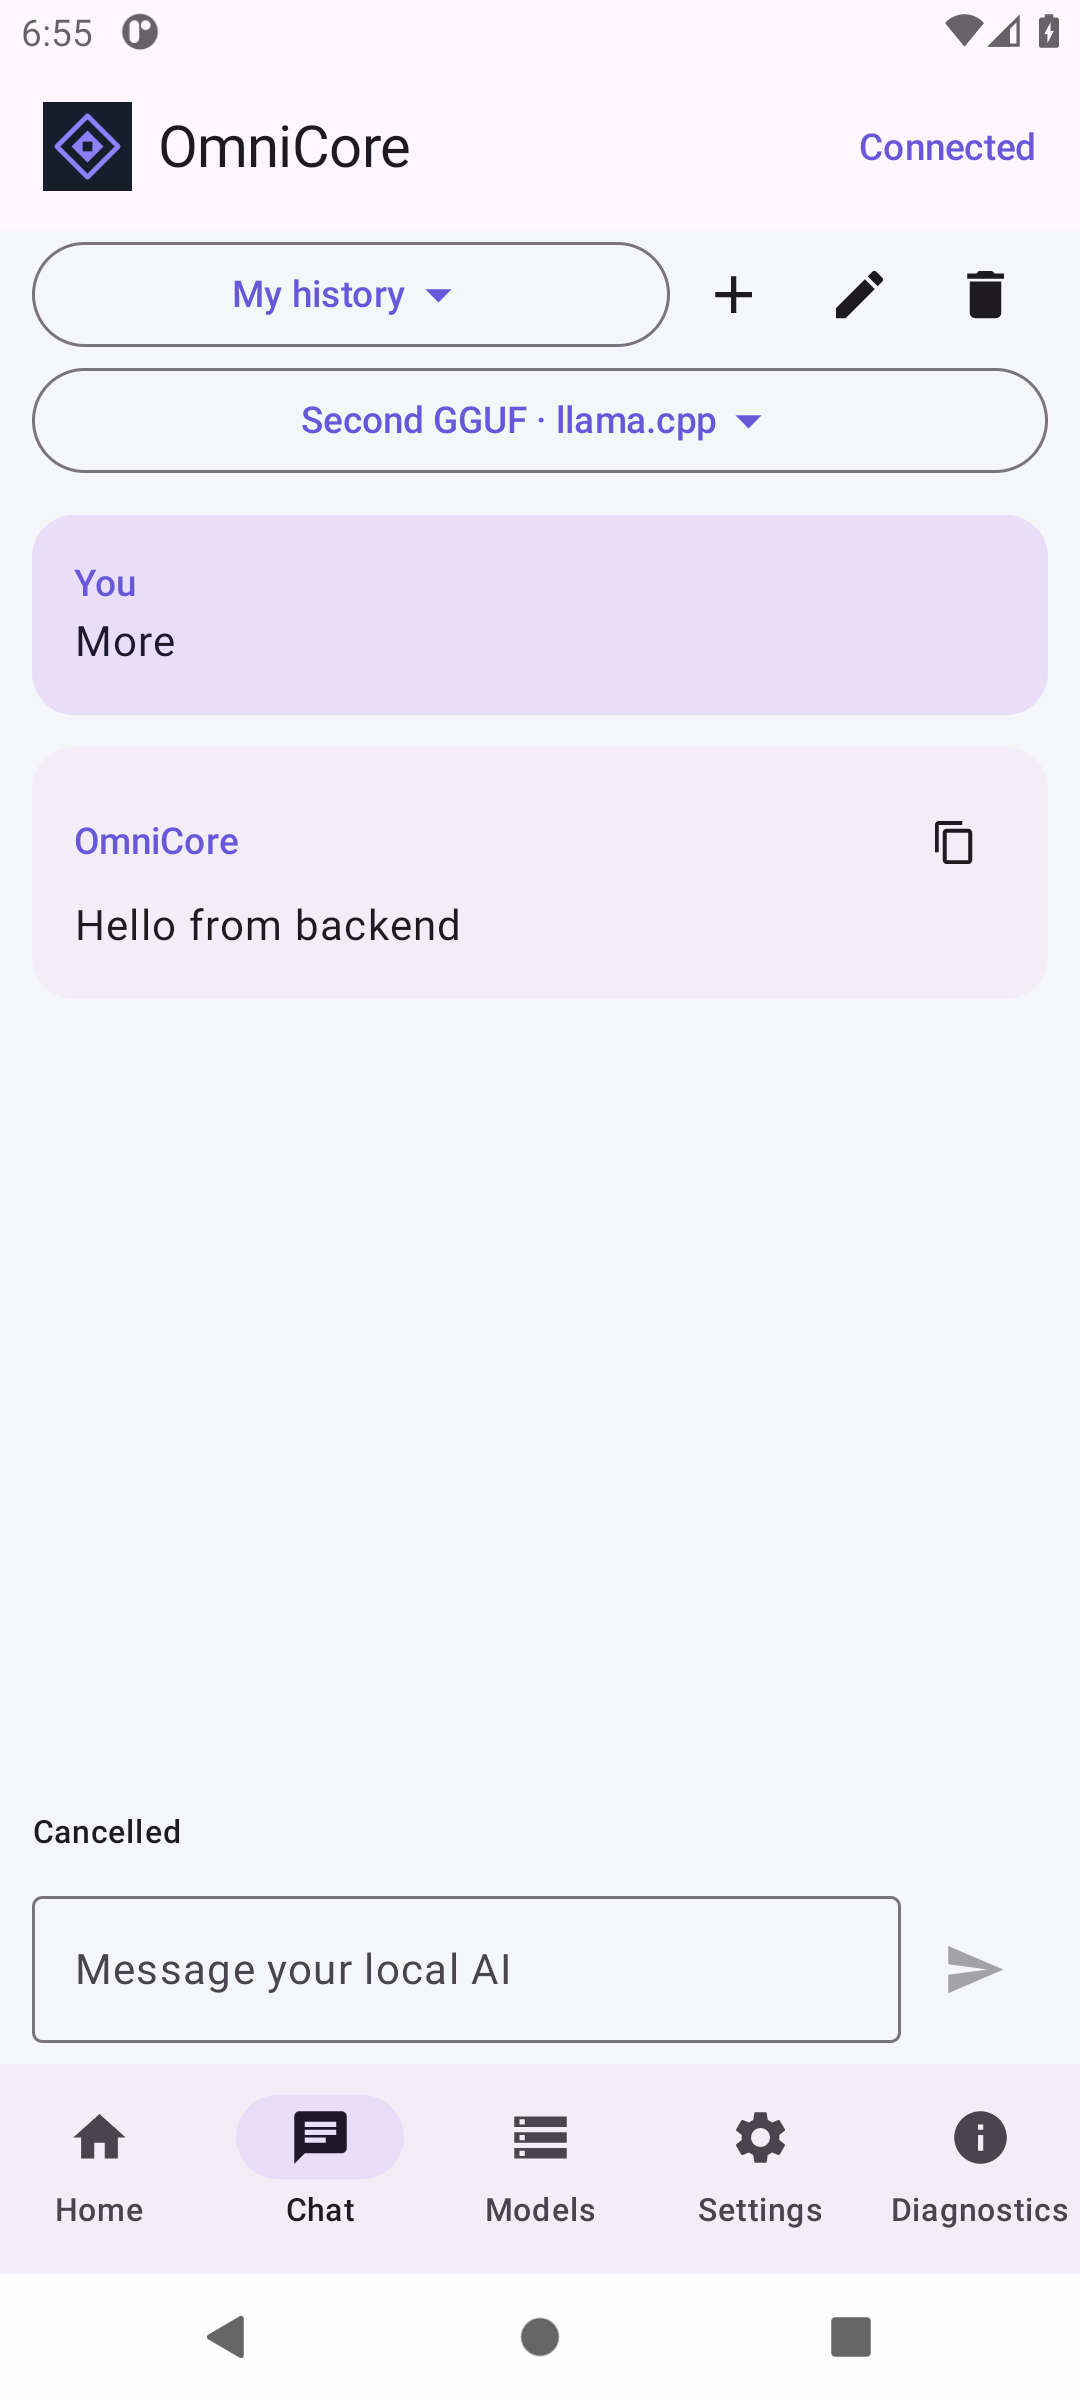
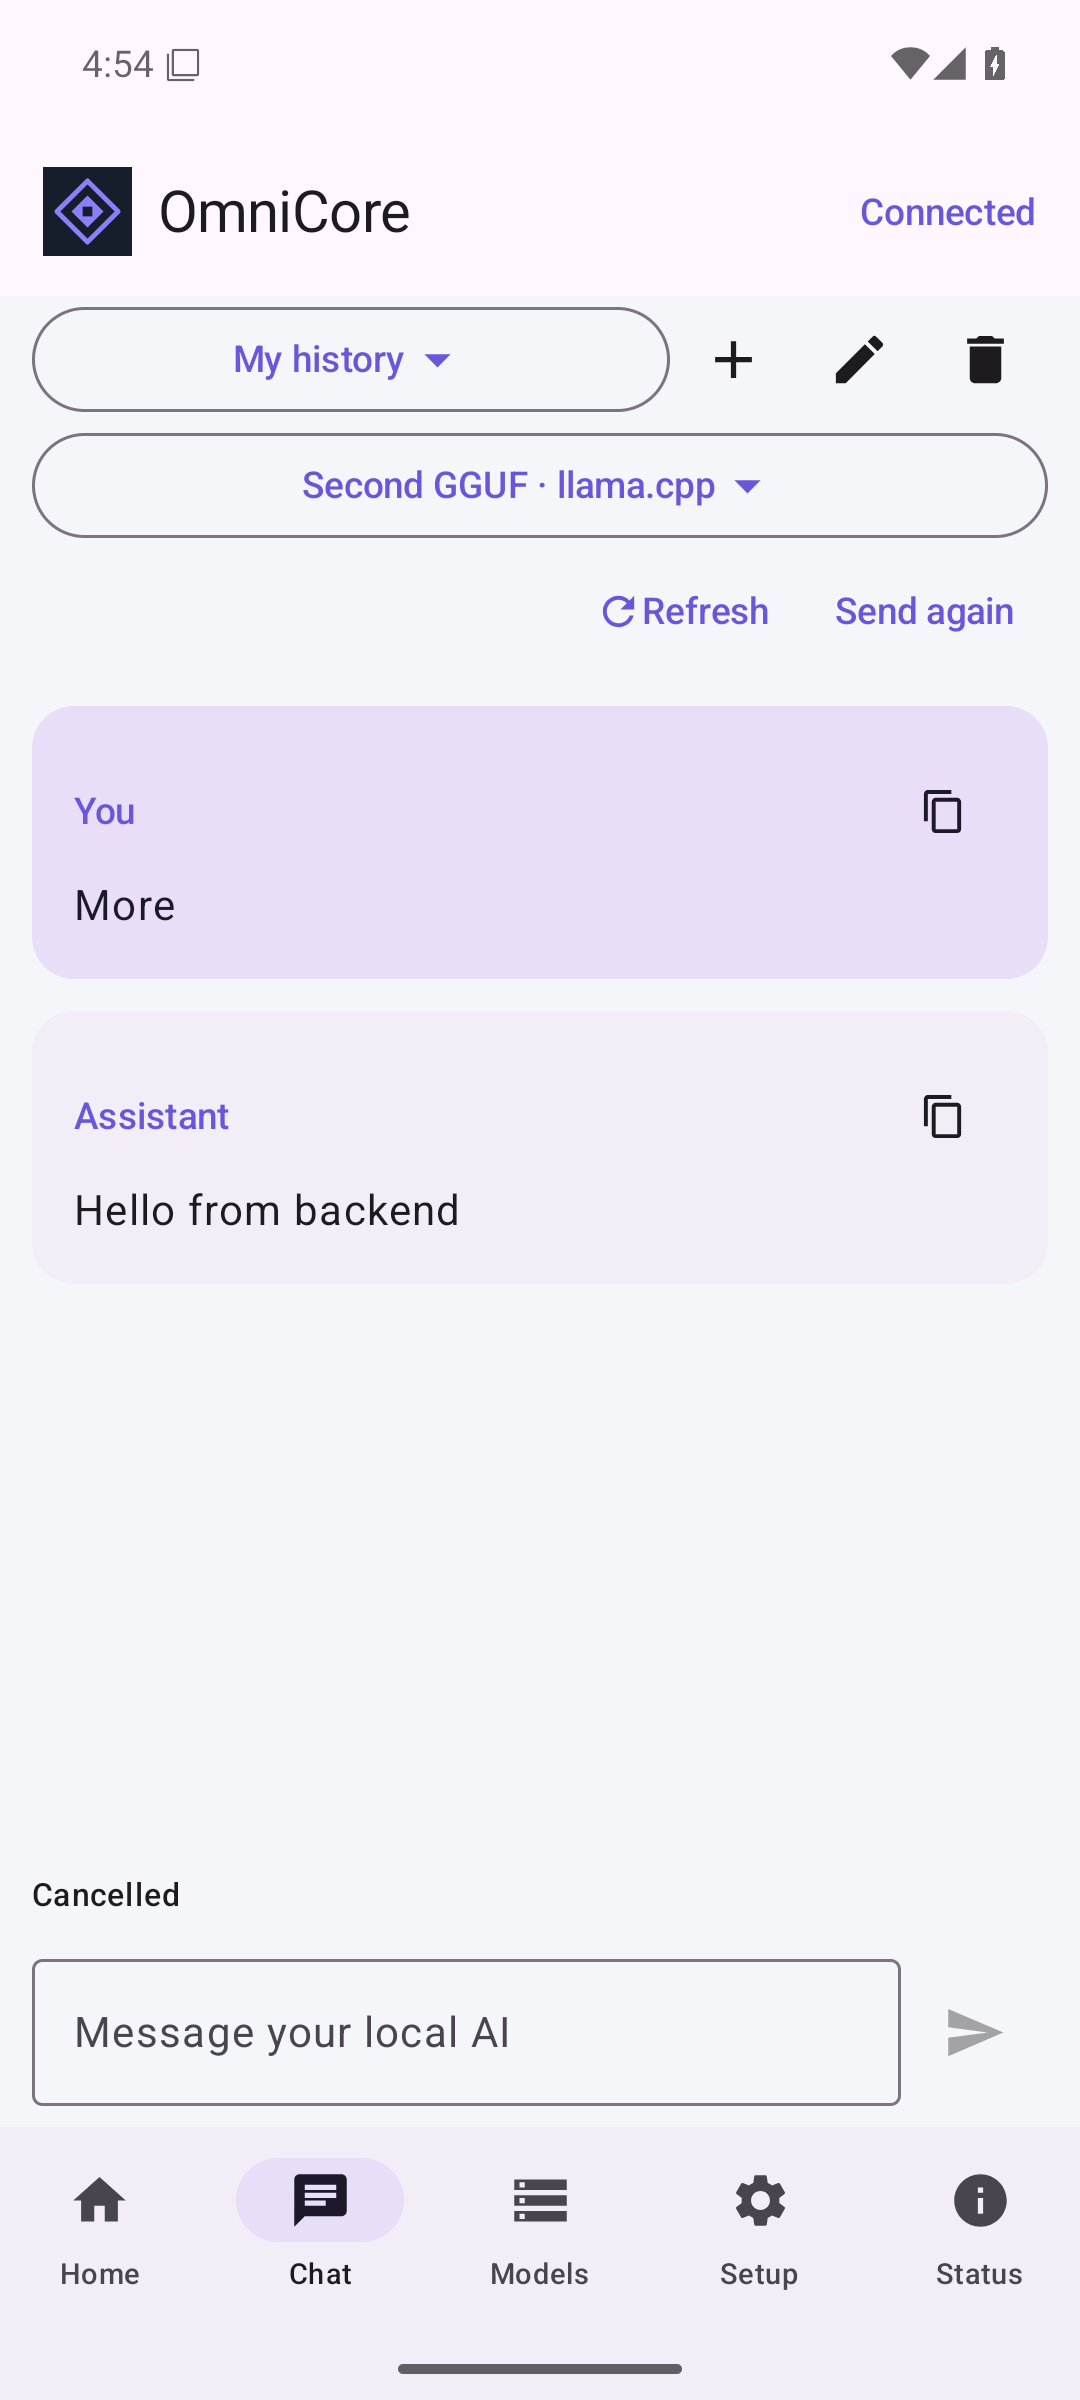
fix(ci): bind Alpha 3 package manifests to the verified PR head

diff --git a/integration/test_llama_real.py b/integration/test_llama_real.py
@@ -33,6 +33,9 @@ def test_gguf_without_ollama(tmp_path, device):
             data_dir=tmp_path / "data",
             model_roots=(path.parent,),
             llama_server=Path(executable),
+            llama_cuda_server=Path(os.environ["OMNICORE_TEST_LLAMA_CUDA_SERVER"])
+            if os.environ.get("OMNICORE_TEST_LLAMA_CUDA_SERVER")
+            else None,
             ollama_enabled=False,
             llama_chat_template=os.environ.get("OMNICORE_TEST_CHAT_TEMPLATE"),
             generation_timeout=120,

diff --git a/desktop/tests/test_desktop.py b/desktop/tests/test_desktop.py
@@ -101,7 +101,7 @@ def test_native_import_and_model_selection_no_ollama(desktop, qtbot, monkeypatch
 def test_settings_locale_theme_persist_and_restart(desktop, qtbot):
     w = desktop
     w.language.setCurrentIndex(w.language.findData("en-US"))
-    assert w.new_button.text() == "＋ New conversation"
+    assert w.new_button.text() == "+ New conversation"
     w.theme.setCurrentIndex(w.theme.findData("dark"))
     dark_styles = w.styleSheet()
     assert "#10151f" in dark_styles

diff --git a/backend/src/omnicore/desktop/transcript.py b/backend/src/omnicore/desktop/transcript.py
@@ -47,7 +47,7 @@ def statistics_text(stats, tr):
         )
         parts.append(f"{tr('finish_reason')}: {reason}")
     if stats.get("execution_device"):
-        parts.append(f"{tr('device')}: {stats['execution_device']}")
+        parts.append(f"{tr('execution_device')}: {stats['execution_device']}")
     if stats.get("fallback_reason"):
         parts.append(tr("cpu_fallback"))
     return " · ".join(parts)

diff --git a/docs/PROGRESS.md b/docs/PROGRESS.md
@@ -716,3 +716,31 @@ Alpha.3. Smoke pakietu porównuje digest pełnej historii po restarcie oraz wers
 Workflowy budowania obejmują gałąź Alpha.3, osobny upload do draft wymaga sukcesu
 obu runów i identycznego SHA w manifestach. Gotowe paczki i ich uruchomienie
 wymagają dalszego potwierdzenia; zmiana skryptu nie oznacza udanego builda.
+
+### Alpha.3 — potwierdzony checkpoint paczek i klientów
+
+Checkpoint gałęzi `f5f2b3779f19e5ded945a837f862ede91ccf2569`:
+CI backend `40915267745` PASS; Linux `40915268031` PASS, w tym 149 testów i faktyczny
+AppImage dwukrotnie; Android `40915267851` PASS (44 JVM, lint/build, po 2 testy UI
+na API 30 i 36, 0 fail/error/skip według XML). Dwa nadmiarowe runy push anulowano
+po uruchomieniu identycznej walidacji PR; nie były błędami produktu.
+
+Lokalny rzeczywisty AppImage: GUI/backend/llama.cpp CPU, streaming GGUF, zamknięcie,
+restart, język/motyw i identyczny digest pełnej historii PASS. W kontenerze Arch
+20261025 (glibc 2.44, Weston 15.0.1, Xvfb 21.1.25, font DejaVu) wykonano osobno
+rzeczywistą generację GGUF i restart na natywnym Wayland/pixman oraz X11/xcb;
+oba raporty ok=true, digest historii/katalog zachowane. Nie jest to test fizycznego
+CachyOS. Minimalny obraz Arch wymagał instalacji fontów; fontconfig wypisuje
+ostrzeżenia o nowszej konfiguracji hosta, ale tekst po instalacji fontu jest czytelny.
+Zrzut Linux pochodzi z tego Wayland/GGUF, Android z natywnego emulatora API 36
+z kontrolowanym backendem HTTP/SSE. Fizycznego telefonu ani GPU nie ma.
+
+Rzeczywisty Kotlin HTTP/SSE + FastAPI + SmolLM2 GGUF CPU: 1 PASS (load, streaming,
+detach bez cancel, jawne cancel, reconnect/historia, unload). To nie test urządzenia.
+Kod aplikacji Android nie został ponownie napisany. Pakiety nie zawierają wag.
+
+Uwaga techniczna checkpointu: checkout PR domyślnie budował tymczasowy merge
+`f288d7b8754dc0c2dab52c156bb8fe29b14e13df`, mimo run.head_sha wskazującego f5f2b37.
+Checkout pakujących workflowów przypięto teraz jawnie do PR head.sha, aby nowa para
+manifestów miała dokładnie SHA wymagane przez upload do draft. Nowe runy są konieczne
+przed dołączeniem paczek. Wydanie Alpha.3 nie zostało publicznie opublikowane.
